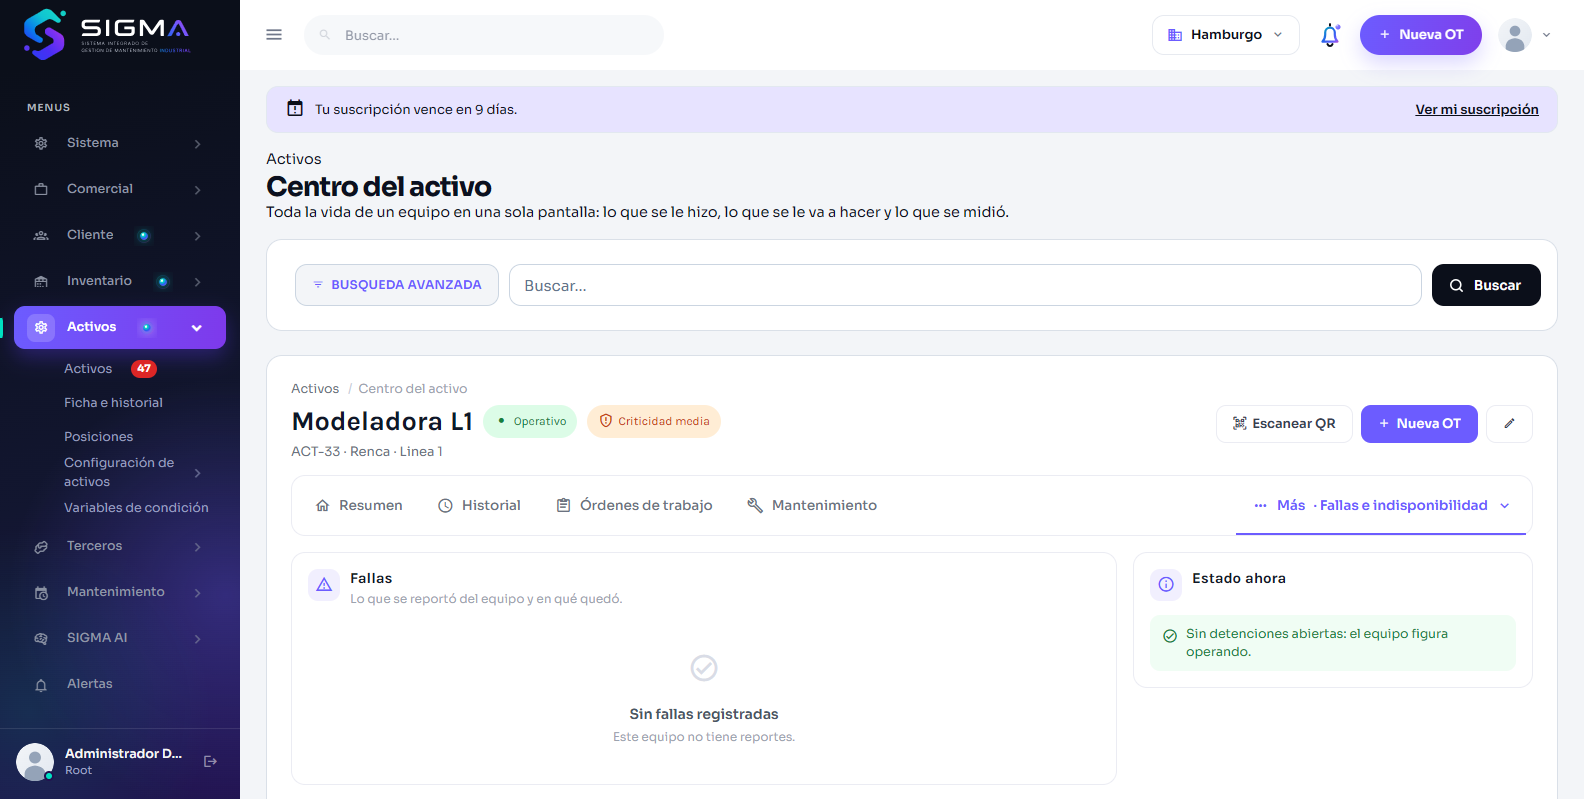
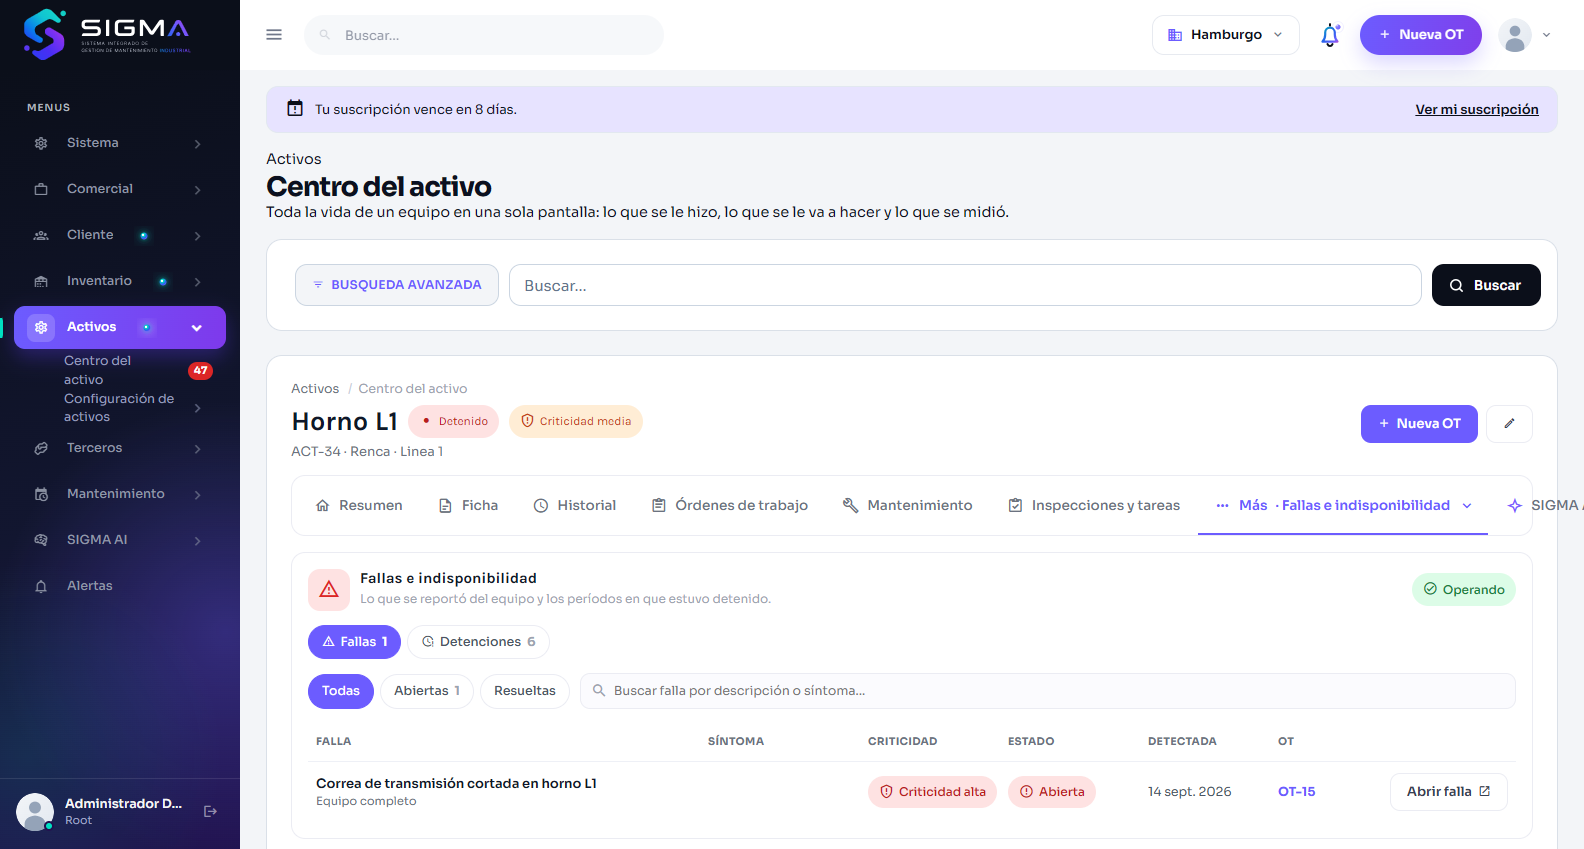
Fallas e indisponibilidad, y el centro se abre apuntando a un equipo
FALLAS

Dos vistas en vez de dos tarjetas apiladas: una falla es lo que le paso a
la maquina y una detencion es el tiempo que estuvo parada. Una falla
puede no detener nada y una detencion planificada no viene de ninguna
falla; mezclarlas obliga a leer cada fila para saber cual es cual.

Fallas va en tabla -sintoma, criticidad, estado, fecha y su OT- con
filtro de abiertas/resueltas y busqueda en el navegador. Detenciones
lleva arriba tres numeros: cuanto se detuvo el periodo, cuanto de eso NO
estaba planificado -que es el tiempo que se perdio- y cuantas hay en la
historia. El estado de ahora subio a la cabecera.

UN ENLACE AL CENTRO QUE NO LLEGABA

ActivoFicha.aspx leia el activo solo del campo oculto, asi que "Ver ficha
del activo" desde el plan -y cualquier enlace guardado- llegaba con el id
en la url y abria el listado. Ahora lo toma del querystring cifrado.

Evidencia: ui_a360_fallas.png y ui_a360_detenciones.png en
Fase 2/Pruebas/capturas/S3, sobre ACT-34: 1 falla abierta, 6 detenciones,
15 h 15 min del periodo de las cuales 7 h 15 min no planificadas.

diff --git a/Web/Intranet/Js/sigma-activo360.js b/Web/Intranet/Js/sigma-activo360.js
@@ -511,11 +511,62 @@
         elegir(tarjetas[0].getAttribute('data-var'));
     }
 
+    /* ---- Fallas: dos vistas y un filtro ----
+
+       La falla es lo que le paso al equipo y la detencion es el tiempo que
+       costo: se cuentan distinto, asi que se miran en dos vistas. El filtro
+       de abiertas/resueltas es del navegador. */
+    function fallas() {
+        var vistas = document.querySelectorAll('#sgFallaVistas a[data-falla-vista]');
+
+        for (var v = 0; v < vistas.length; v++)
+            vistas[v].onclick = function (ev) {
+                ev.preventDefault();
+                var cual = this.getAttribute('data-falla-vista');
+
+                for (var k = 0; k < vistas.length; k++) vistas[k].classList.remove('es-activa');
+                this.classList.add('es-activa');
+
+                var paneles = document.querySelectorAll('.sg-cond-vista[data-falla-vista]');
+                for (var p = 0; p < paneles.length; p++)
+                    paneles[p].classList.toggle('es-oculta', paneles[p].getAttribute('data-falla-vista') !== cual);
+            };
+
+        var filas = document.querySelectorAll('.sg-falla');
+        if (!filas.length) return;
+
+        var chips = document.querySelectorAll('#sgFallaEstados a[data-falla-estado]');
+        var buscar = document.getElementById('sgFallaBuscar');
+
+        function filtrar() {
+            var activa = document.querySelector('#sgFallaEstados a.es-activa');
+            var estado = activa ? activa.getAttribute('data-falla-estado') : 'todas';
+            var texto = (buscar && buscar.value || '').toLowerCase().trim();
+
+            for (var i = 0; i < filas.length; i++) {
+                var ok = (estado === 'todas' || filas[i].getAttribute('data-falla-estado') === estado)
+                      && (texto === '' || (filas[i].getAttribute('data-falla-txt') || '').indexOf(texto) !== -1);
+                filas[i].classList.toggle('es-oculta', !ok);
+            }
+        }
+
+        for (var c = 0; c < chips.length; c++)
+            chips[c].onclick = function (ev) {
+                ev.preventDefault();
+                for (var k = 0; k < chips.length; k++) chips[k].classList.remove('es-activa');
+                this.classList.add('es-activa');
+                filtrar();
+            };
+
+        if (buscar) buscar.oninput = filtrar;
+    }
+
     function armar() {
         navegacion();
         ficha();
         componentes();
         condicion();
+        fallas();
         ordenes();
         revisiones();
         ampliables();

diff --git a/Web/Intranet/Css/LookAndFeel/sigma-activo360.css b/Web/Intranet/Css/LookAndFeel/sigma-activo360.css
@@ -993,3 +993,14 @@ a.sg-a3-cond-card:hover { background: var(--sg-surface-subtle); }
     background: var(--sg-surface-subtle);
 }
 .sg-comp-det-foto img { width: 100%; height: 100%; object-fit: cover; display: block; }
+
+/* ---- Fallas e indisponibilidad ------------------------------------------ */
+.sg-falla-cab,
+.sg-falla { grid-template-columns: minmax(180px, 2fr) 150px 130px 130px 120px 100px 120px; }
+.sg-falla.es-oculta { display: none; }
+
+.sg-deten-cab,
+.sg-deten { grid-template-columns: 130px 170px 110px 140px minmax(150px, 1.6fr) 100px 120px; }
+
+.sg-falla-total { margin-bottom: 14px; }
+.sg-falla-total .sg-a3-kpis { margin-bottom: 0; }

diff --git a/Web/Intranet/View/Activos/Ficha/ActivoFicha.aspx.cs b/Web/Intranet/View/Activos/Ficha/ActivoFicha.aspx.cs
@@ -38,6 +38,13 @@ public partial class View_Activos_Ficha_ActivoFicha : System.Web.UI.Page
     {
         if (!IsPostBack)
         {
+            /* El centro se puede abrir apuntando a UN equipo: es lo que hacen
+               "Ver ficha del activo" desde el plan y cualquier enlace guardado.
+               Sin esto la url llegaba con el id y la pantalla abria el listado,
+               que es peor que no tener el enlace. */
+            int deLaUrl = SitioBase.Querystring.Entero(Request.QueryString["query"], "Id");
+            if (deLaUrl > 0) hdnActivo.Value = deLaUrl.ToString();
+
             // Columnas de la lista de resultados (la lupa se agrega en ItemDataBound).
             gridResultados.AddColumn("ACT_ID", "", Width: "4%");
             gridResultados.AddColumn("ACT_CODIGO", "CÓDIGO", Width: "13%");
@@ -900,70 +907,160 @@ public partial class View_Activos_Ficha_ActivoFicha : System.Web.UI.Page
 
     #region 7. Fallas e indisponibilidad
 
+    /// <summary>
+    /// Lo que se reporto del equipo y el tiempo que costo.
+    ///
+    /// SON DOS CUENTAS DISTINTAS
+    ///   Una falla es lo que le paso a la maquina; una detencion es el tiempo
+    ///   que estuvo parada. Una falla puede no detener nada y una detencion
+    ///   planificada no viene de ninguna falla. Mezclarlas en una lista
+    ///   obliga a leer cada fila para saber cual es cual.
+    /// </summary>
     private void FallasYDetenciones(Activo a, List<Falla> fallas, List<ActivoIndisponibilidad> detenciones)
     {
-        // ---- fallas ----
+        // ======================================================== fallas ====
+        int abiertas = fallas.Count(f => f.fal_fecha_solucion_utc == null);
+
+        litFallasN.Text = fallas.Count.ToString();
+        litFallasAbiertas.Text = abiertas.ToString();
+
         if (fallas.Count == 0)
-            litFallas.Text = "<div class=\"sg-ot-vacio es-chico\"><i class=\"mdi mdi-check-circle-outline\"></i>" +
-                             "<p>Sin fallas registradas</p><span>Este equipo no tiene reportes.</span></div>";
+        {
+            litFallas.Text = "<div class=\"sg-ot-vacio\"><i class=\"mdi mdi-check-circle-outline\"></i>" +
+                             "<p>Sin fallas registradas</p>" +
+                             "<span>Este equipo no tiene fallas reportadas.</span></div>";
+        }
         else
         {
             StringBuilder s = new StringBuilder();
 
-            foreach (Falla f in fallas.OrderByDescending(x => x.fal_fecha_deteccion_utc))
+            s.Append("<div class=\"sg-a3-tabla-cab sg-falla-cab\">")
+             .Append("<span>Falla</span><span>Síntoma</span><span>Criticidad</span>")
+             .Append("<span>Estado</span><span>Detectada</span><span>OT</span><span></span></div>");
+
+            foreach (Falla f in fallas.OrderByDescending(x => x.fal_fecha_deteccion_utc ?? x.fal_fecha_creacion))
             {
                 bool abierta = f.fal_fecha_solucion_utc == null;
 
-                s.Append(Fila(abierta ? "mdi-alert-outline" : "mdi-check-circle-outline",
-                         abierta ? "es-alerta" : "es-ok",
-                         Texto(f.fal_titulo),
-                         (f.fal_fecha_deteccion_utc == null ? "" : f.fal_fecha_deteccion_utc.Value.ToString("dd MMM yyyy") + " · ") +
-                         Texto(f.sintoma_nombre) +
-                         (f.ultima_ot_correlativo != null ? " · OT-" + f.ultima_ot_correlativo : ""),
-                         (abierta
-                            ? "<span class=\"sg-ot-chip es-espera\">Abierta</span>"
-                            : "<span class=\"sg-ot-chip es-ejecucion\">Resuelta</span>") +
-                         Boton(UrlFalla(f.fal_id), "Abrir falla")));
+                s.Append("<div class=\"sg-a3-tabla-fila sg-falla\" data-falla-estado=\"")
+                 .Append(abierta ? "abierta" : "resuelta")
+                 .Append("\" data-falla-txt=\"")
+                 .Append(Server.HtmlEncode((Texto(f.fal_titulo) + " " + Texto(f.sintoma_nombre) + " " + Texto(f.componente_nombre)).ToLower()))
+                 .Append("\">")
+
+                 .Append("<span class=\"c-cod\">").Append(Server.HtmlEncode(Texto(f.fal_titulo)))
+                 .Append("<span>")
+                 .Append(Server.HtmlEncode(string.IsNullOrEmpty(f.componente_nombre) ? "Equipo completo" : f.componente_nombre))
+                 .Append("</span></span>")
+
+                 .Append("<span class=\"c-dato\">").Append(Server.HtmlEncode(Texto(f.sintoma_nombre))).Append("</span>")
+                 .Append("<span class=\"c-dato\">").Append(ChipCriticidad(f.criticidad_nombre)).Append("</span>")
+
+                 .Append("<span class=\"c-dato\">")
+                 .Append(abierta
+                        ? "<span class=\"sg-ot-chip es-rojo\"><i class=\"mdi mdi-alert-circle-outline\"></i>Abierta</span>"
+                        : "<span class=\"sg-ot-chip es-ok\"><i class=\"mdi mdi-check\"></i>Resuelta</span>")
+                 .Append("</span>")
+
+                 .Append("<span class=\"c-dato\">")
+                 .Append(f.fal_fecha_deteccion_utc == null ? "—" : f.fal_fecha_deteccion_utc.Value.ToString("dd MMM yyyy"))
+                 .Append("</span>")
+
+                 .Append("<span class=\"c-dato\">")
+                 .Append(f.ultima_ot_correlativo == null
+                        ? "<span class=\"sg-ot-vacio-txt\">Sin OT</span>"
+                        : "<span class=\"sg-a3-codigo\">OT-" + f.ultima_ot_correlativo + "</span>")
+                 .Append("</span>")
+
+                 .Append("<span class=\"c-acc\">").Append(Boton(UrlFalla(f.fal_id), "Abrir falla")).Append("</span>")
+                 .Append("</div>");
             }
 
             litFallas.Text = s.ToString();
         }
 
-        // ---- detenciones ----
+        // =================================================== detenciones ====
         DateTime hoy = global::SitioBase.Hora.Hoy;
         DateTime mes = new DateTime(hoy.Year, hoy.Month, 1);
-        int minutosMes = detenciones.Where(d => d.ain_fecha_inicio_utc >= mes).Sum(d => d.minutos_acumulados);
 
-        litDetencionTotal.Text = "<div class=\"sg-ot-card-acc sg-ot-avance\"><div class=\"sg-ot-avance-num\"><strong>" +
-                                 Duracion(minutosMes) + "</strong><span>" + hoy.ToString("MMMM yyyy") + "</span></div></div>";
+        int minutosMes = detenciones.Where(d => d.ain_fecha_inicio_utc >= mes).Sum(d => d.minutos_acumulados);
+        int minutosNoPlan = detenciones.Where(d => d.ain_fecha_inicio_utc >= mes && !d.ain_planificada).Sum(d => d.minutos_acumulados);
+
+        litDetencionesN.Text = detenciones.Count.ToString();
+
+        litDetencionTotal.Text =
+            "<div class=\"sg-a3-kpis\">" +
+            Kpi("mdi-clock-outline", Duracion(minutosMes), "Detención del período",
+                hoy.ToString("MMMM yyyy"), minutosMes > 0 ? "es-ambar" : "es-verde") +
+            Kpi("mdi-flash-outline", Duracion(minutosNoPlan), "De ella, no planificada",
+                minutosNoPlan > 0 ? "Tiempo que se perdió" : "Nada imprevisto",
+                minutosNoPlan > 0 ? "es-rojo" : "es-verde") +
+            Kpi("mdi-counter", detenciones.Count.ToString(), "Detenciones registradas", "Historia completa", "es-azul") +
+            "</div>";
 
         if (detenciones.Count == 0)
         {
-            litIndisponibilidad.Text = "<p class=\"sg-ot-vacio-txt\">Sin períodos de detención registrados.</p>";
+            litIndisponibilidad.Text = "<div class=\"sg-ot-vacio\"><i class=\"mdi mdi-power-plug-outline\"></i>" +
+                                       "<p>Sin períodos de detención</p>" +
+                                       "<span>El equipo no registra paradas.</span></div>";
         }
         else
         {
             StringBuilder d = new StringBuilder();
 
-            foreach (ActivoIndisponibilidad i in detenciones.OrderByDescending(x => x.ain_fecha_inicio_utc).Take(10))
-                d.Append(Fila(i.ain_planificada ? "mdi-calendar-check-outline" : "mdi-flash-outline",
-                         i.ain_planificada ? "es-ok" : "es-alerta",
-                         i.ain_fecha_inicio_utc.ToString("dd MMM yyyy · HH:mm") + " → " +
-                         (i.ain_fecha_fin_utc == null ? "sigue detenido" : i.ain_fecha_fin_utc.Value.ToString("HH:mm")),
-                         Texto(i.motivo_nombre) + (i.ot_correlativo != null ? " · OT-" + i.ot_correlativo : ""),
-                         "<span class=\"sg-ot-chip " + (i.ain_planificada ? "es-abierta" : "es-critica") + "\">" +
-                         (i.ain_planificada ? "Planificada" : "No planificada") + "</span>" +
-                         "<span class=\"sg-a3-codigo\">" + Duracion(i.minutos_acumulados) + "</span>"));
+            d.Append("<div class=\"sg-a3-tabla-cab sg-deten-cab\">")
+             .Append("<span>Inicio</span><span>Fin</span><span>Duración</span>")
+             .Append("<span>Tipo</span><span>Causa</span><span>OT</span><span></span></div>");
+
+            foreach (ActivoIndisponibilidad i in detenciones.OrderByDescending(x => x.ain_fecha_inicio_utc))
+            {
+                bool abierta = i.ain_fecha_fin_utc == null;
+
+                d.Append("<div class=\"sg-a3-tabla-fila sg-deten\">")
+                 .Append("<span class=\"c-cod\">").Append(i.ain_fecha_inicio_utc.ToString("dd MMM yyyy"))
+                 .Append("<span>").Append(i.ain_fecha_inicio_utc.ToString("HH:mm")).Append("</span></span>")
+
+                 .Append("<span class=\"c-dato\">")
+                 .Append(abierta
+                        ? "<span class=\"sg-ot-chip es-rojo\">Sigue detenido</span>"
+                        : Server.HtmlEncode(i.ain_fecha_fin_utc.Value.ToString("dd MMM yyyy · HH:mm")))
+                 .Append("</span>")
+
+                 .Append("<span class=\"c-dato\">").Append(Duracion(i.minutos_acumulados)).Append("</span>")
+
+                 .Append("<span class=\"c-dato\">")
+                 .Append(i.ain_planificada
+                        ? "<span class=\"sg-ot-chip es-info\">Planificada</span>"
+                        : "<span class=\"sg-ot-chip es-aviso\">No planificada</span>")
+                 .Append("</span>")
+
+                 .Append("<span class=\"c-dato\">")
+                 .Append(Server.HtmlEncode(
+                     !string.IsNullOrEmpty(i.motivo_nombre) ? i.motivo_nombre
+                     : (!string.IsNullOrEmpty(i.falla_titulo) ? i.falla_titulo : Texto(i.ain_motivo))))
+                 .Append("</span>")
+
+                 .Append("<span class=\"c-dato\">")
+                 .Append(i.ot_correlativo == null
+                        ? "<span class=\"sg-ot-vacio-txt\">—</span>"
+                        : "<span class=\"sg-a3-codigo\">OT-" + i.ot_correlativo + "</span>")
+                 .Append("</span>")
+
+                 .Append("<span class=\"c-acc\">")
+                 .Append(i.ain_orden_trabajo == null ? "" : Boton(UrlOrden(i.ain_orden_trabajo.Value), "Abrir OT"))
+                 .Append("</span>")
+                 .Append("</div>");
+            }
 
             litIndisponibilidad.Text = d.ToString();
         }
 
-        // ---- estado ahora ----
+        // ---- el estado de AHORA, en la cabecera ----
         bool detenidoAhora = detenciones.Any(x => x.ain_fecha_fin_utc == null);
 
         litEstadoAhora.Text = detenidoAhora
-            ? "<div class=\"sg-ot-aviso\"><i class=\"mdi mdi-flash-outline\"></i>Hay una detención abierta: el equipo figura detenido ahora mismo.</div>"
-            : "<div class=\"sg-ot-aviso es-ok\"><i class=\"mdi mdi-check-circle-outline\"></i>Sin detenciones abiertas: el equipo figura operando.</div>";
+            ? "<span class=\"sg-ot-chip es-rojo sg-ot-card-acc\"><i class=\"mdi mdi-flash-outline\"></i>Detenido ahora</span>"
+            : "<span class=\"sg-ot-chip es-ok sg-ot-card-acc\"><i class=\"mdi mdi-check-circle-outline\"></i>Operando</span>";
     }
 
     #endregion
